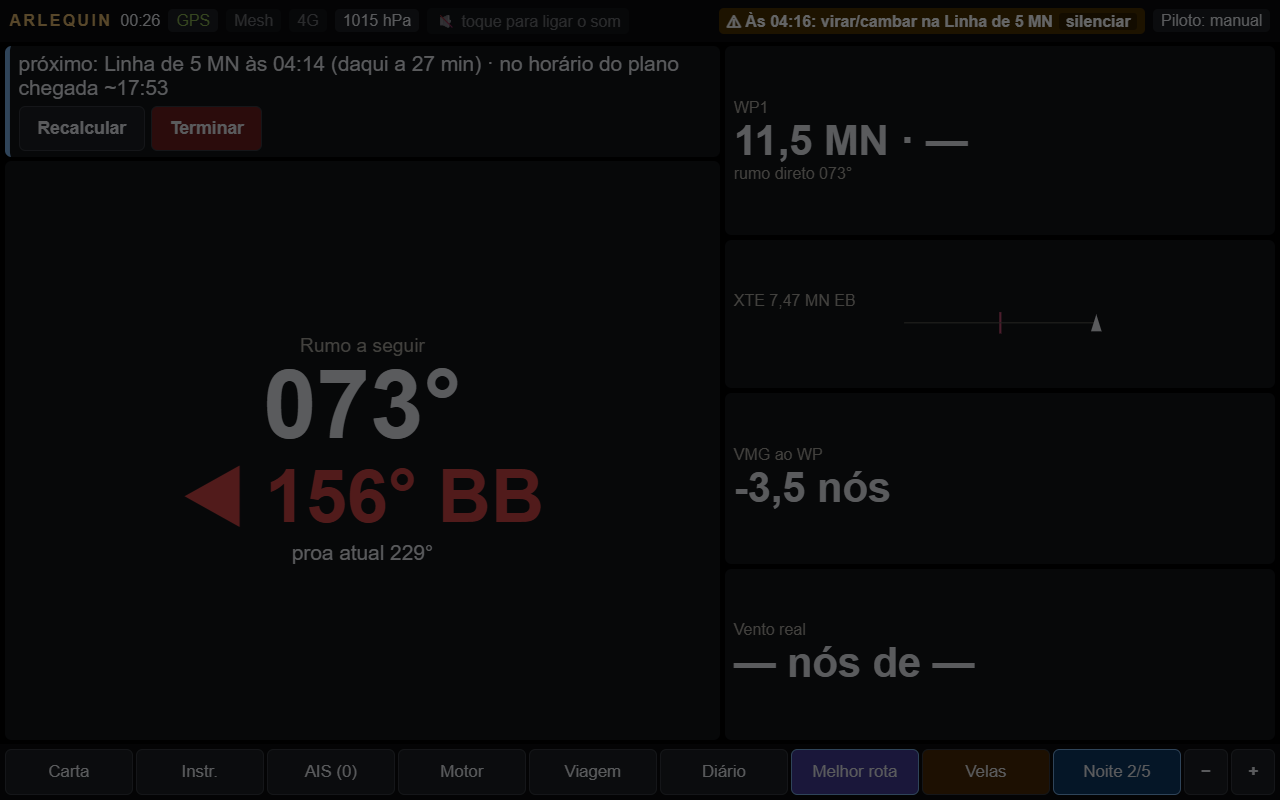
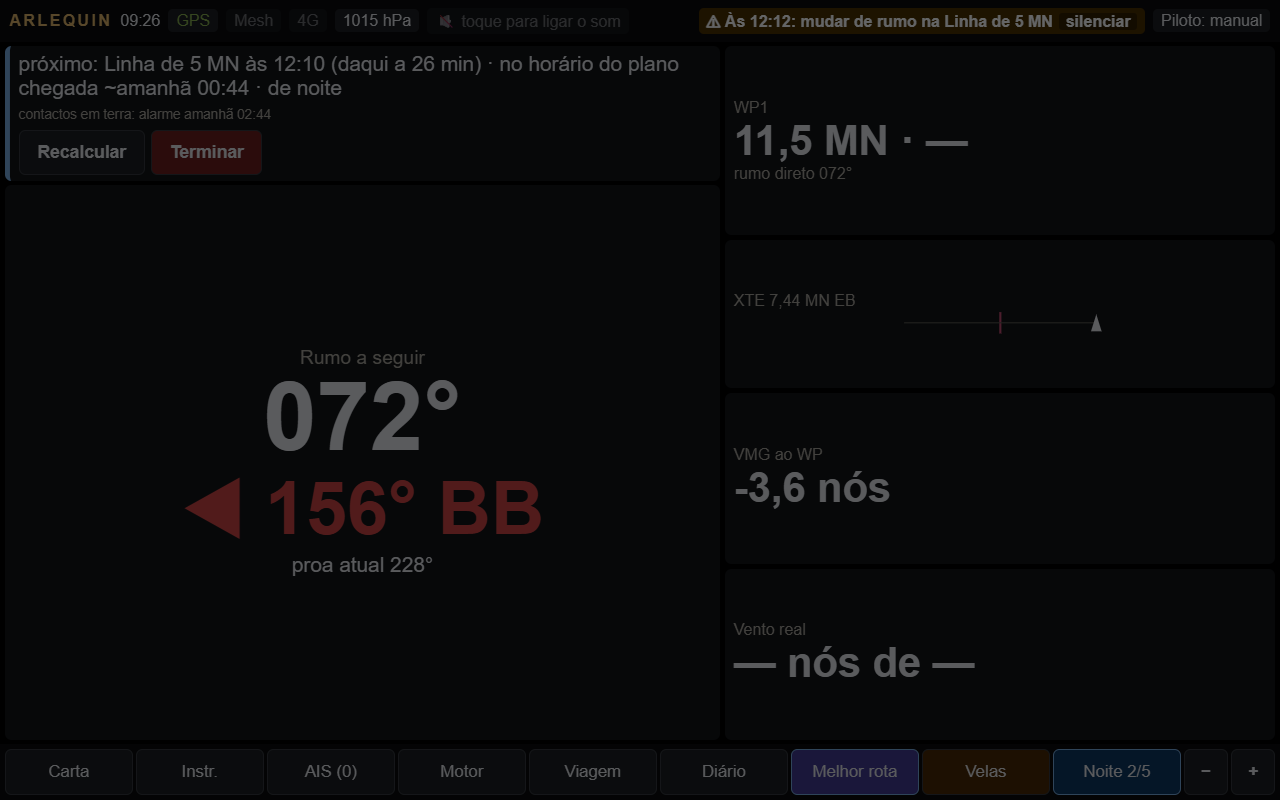
Docs 3b-2 (revisão final): "só a avançar + teto de 3 h" no desenho e no NAVEGACAO, capturas novas
- Desenho (Decisões do Ivo e Contactos em terra) e NAVEGACAO: a decisão do Ivo de 02/10 ("Só a avançar +
  teto de 3 h") e o botão Estou bem; o plano de outra alternativa, o contacto que falhou, a hora de
  alarme em terra no ecrã e o aviso 60 min antes; "mudar de rumo" a motor; a rotação do vento só com 6
  nós ou mais; a ida e volta; depois de desligar o Pi um aviso ativo volta a chegar uma vez.
- Plano: "Alterações durante a execução".
- Capturas (viagem acelerada Algés → Peniche, 1280×800, dia e noite): 01–04 refeitas, 06 nova (o Estou
  bem com o barco parado), noite-brilho-1/5 refeitas (o motor tracejado); as 05 (rotação do vento com
  1–2 nós previstos) saem: com o limite dos 6 nós esse lembrete já não aparece.

Changed region(s): [[0.125, 0.4062, 0.4375, 0.7188], [0.0, 0.0625, 0.2812, 0.2188], [0.5312, 0.0, 0.7188, 0.0625]]

diff --git a/NAVEGACAO.md b/NAVEGACAO.md
@@ -1387,7 +1387,7 @@ quem o recebe para ligar ao Ivo e, se ele não atender, ao MRCC Lisboa (+351 214
 #### A navegar (3b-2)
 
 Desenho em `docs/superpowers/specs/2026-10-01-melhor-rota-navegar-3b2-design.md`; capturas do Leme
-(faixa com o lembrete de virar/cambar, recalcula, rota mudada, recursos e barómetro, rotação do vento), de dia e de noite
+(faixa com o lembrete de mudar de rumo, recalcula, rota mudada, recursos e barómetro, e o "Estou bem" com a hora de alarme em terra por adiar), de dia e de noite
 (o modo noite de 01/10, brilho 2), em `docs/capturas-3b2/`. Corre no **plugin da rota,
 no Pi**, de minuto a minuto: funciona com o ecrã desligado e continua depois de um reinício (o plano
 fica gravado em `plano-ativo.json`, na pasta do plugin). **Nunca muda a rota sozinho.**
@@ -1399,7 +1399,10 @@ destino, parado (menos de 0,5 nó) durante 5 min, depois de feita pelo menos met
 com menos de 1 MN, depois de 5 min a navegar). Com a rota limpa ou trocada no OpenCPN (o plano em
 pausa), conta também o afastamento real: se já estiveste a pelo menos 1 MN da partida (ou a metade
 da distância em linha reta até ao destino, se for menor), chegar e ficar 5 min no cais dá o "cheguei
-bem" na mesma. Um plano novo começa limpo; os 5 últimos ficam em `planos-fechados.json`.
+bem" na mesma. Em pausa, e numa rota com menos de 1 MN, o barco também tem de ter saído 0,5 MN do
+cais (a contar da partida) e voltado: numa ida e volta, ou com o destino colado à partida, ficar no
+cais logo à saída não é "cheguei bem". Um plano novo começa limpo; os 5 últimos ficam em
+`planos-fechados.json`.
 
 **A faixa no Leme**, por cima do rumo:
 - "próximo: rizar às 22:50 (daqui a 25 min) · +20 min sobre o plano" (os eventos de sítio — rizar,
@@ -1408,14 +1411,20 @@ bem" na mesma. Um plano novo começa limpo; os 5 últimos ficam em `planos-fecha
 - "chegada ~amanhã 07:58 (plano 07:38)", com "de noite" se a chegada deslizada for de noite;
 - "recursos: gasóleo à chegada ~34 L" quando há aviso, ou "recursos: sem leitura";
 - "sem GPS: acompanhamento parado" (mais de 2 min sem posição) e "barómetro: sem leitura";
-- antes de sair: "plano ativo · à espera de sair".
+- antes de sair: "plano ativo · à espera de sair";
+- com o plano enviado: "contactos em terra: alarme HH:MM" (a hora a que eles ligam ao MRCC), "mensagem
+  para terra por enviar (sem rede)" quando uma já falhou, "não chegou a X (a tentar outra vez)" e, na
+  caixa da pausa, "em pausa: os atrasos não seguem para terra".
 
 **O que o sistema avisa** (na barra de cima, com o apito curto; nenhum muda a rota):
 - **Lembretes**, 30 min antes: rizar ou largar rizo, a frente, chuva e visibilidade abaixo de 5 km
   ("radar ligado e luzes"), o pôr do sol ("luzes, arnês, come antes de escurecer"), a chegada de
   noite, **virar/cambar** nos pontos da rota onde o rumo muda mais de 45° ("virar/cambar no Cabo
-  Raso") e a **rotação do vento** previsto de mais de 45° em 1 h ("rotação do vento de 350° para
-  50°"). Só no ecrã.
+  Raso"; num troço a motor, "mudar de rumo no Cabo Raso") e a **rotação do vento** previsto de mais
+  de 45° em 1 h ("rotação do vento de 350° para 50°"; com vento previsto de 6 nós ou mais, no mínimo
+  3 h entre elas e nenhuma perto de uma frente, que já diz para onde roda). Só no ecrã.
+- **A hora de alarme em terra**, 60 min antes, com o plano aberto (também à espera de sair e em
+  pausa): "Os contactos em terra ligam ao MRCC às HH:MM: avisa-os ou Terminar". Só no ecrã.
 - **Come e bebe** (só com "só eu"), de 3 em 3 h desde a saída, durante 15 min. Só no ecrã.
 - **Recalcula a rota**: atraso de mais de 30 min, ou o vento medido (média de 10 min) afastado do
   previsto mais de 30 % e mais de 4 nós durante 30 min seguidos. Apaga-se com os dois normais
@@ -1427,7 +1436,9 @@ bem" na mesma. Um plano novo começa limpo; os 5 últimos ficam em `planos-fecha
 - **Barómetro**: queda de mais de 3 hPa em 3 h, "o tempo pode piorar antes do previsto"; apaga-se
   com a queda em 3 h até 2 hPa. Vai também para o teu Telegram.
 - O teu Telegram recebe o "✓ Resolvido" quando passam, uma só vez (o plugin porto guarda o que já
-  te mandou em `encaminhador.json`: um reinício do servidor não repete os avisos nem o "Resolvido").
+  te mandou em `encaminhador.json`: um reinício do plugin não repete os avisos nem o "Resolvido";
+  depois de desligar o Pi, um aviso ainda ativo volta a chegar uma vez — mais vale repetido do que
+  perdido).
   O apito contínuo fica só para o AIS.
 
 **O que os contactos em terra recebem** (só se o plano lhes foi enviado; vão também para o teu chat):
@@ -1436,9 +1447,19 @@ bem" na mesma. Um plano novo começa limpo; os 5 últimos ficam em `planos-fecha
   HH:MM)." quando a chegada prevista passa **30 min ou mais** da "mais tarde" do plano (decisão do
   Ivo de 01/10: uns minutos não preocupam ninguém em terra); depois, no máximo 1× por hora
   e só se a chegada escorregar mais 15 min. A nova hora de alarme é a chegada prevista + 2 h, e só
-  conta quando chega a terra (o "em vez de" é sempre a última que eles receberam);
+  conta quando chega a terra (o "em vez de" é sempre a última que eles receberam). **Só sai com o
+  barco a avançar** (decisão do Ivo de 02/10, "só a avançar + teto de 3 h"): pelo menos 1 MN na rota
+  na última hora, a andar agora e a menos de 2 MN da rota; e **nunca empurra sozinho a hora de alarme
+  mais de 3 h** sobre a do plano. Parado ou à deriva não sai nada: fica a hora de alarme que eles têm
+  (se estiveres incapacitado, ligam ao MRCC à hora certa). O Leme diz então "A hora de alarme em terra
+  é HH:MM e não foi adiada (barco parado / limite de 3 h). Se estás bem, carrega Estou bem.": o botão
+  **Estou bem** manda um atraso com a estimativa de agora, e o limite passa a 3 h sobre essa hora;
 - "Viagem terminada / mudança de planos: estou bem, em <posição> às HH:MM." ao Terminar;
-- o plano novo, com "Este plano substitui o anterior", ao Recalcular → Ativar.
+- o plano novo, com "Este plano substitui o anterior", ao Recalcular → Ativar, e também ao Ativar
+  outra alternativa (ou outro cálculo) quando eles têm o plano de outra (o Resultado avisa: "os
+  contactos em terra têm o plano da 1.ª alternativa (alarme HH:MM): ao Ativar, segue o novo").
+- Um contacto que não a recebeu (bloqueou o bot, um erro do Telegram) recebe-a outra vez, igual e com
+  a mesma referência, de 2 em 2 min, até chegar.
 - Nada mais: os lembretes, os avisos e a rota mudada nunca vão para terra. Sem rede (ou sem o
   plugin porto), as mensagens ficam em fila e voltam a tentar de 2 em 2 min (no teu chat só a 1.ª
   vez). Um atraso que fica na fila sai com os valores da hora a que sai, e já não sai se entretanto

diff --git a/docs/superpowers/specs/2026-10-01-melhor-rota-navegar-3b2-design.md b/docs/superpowers/specs/2026-10-01-melhor-rota-navegar-3b2-design.md
@@ -14,6 +14,7 @@ Parte do desenho geral `2026-09-29-melhor-rota-ia-design.md` (Parte 4: avisos e 
 | Mudança de rota | Nunca muda a rota sozinho. "Recalcular" é um botão; ativar outra rota substitui o plano |
 | Ver a chegada mesmo em pausa (01/10, revisão) | Em pausa, a chegada ao cais do plano continua a contar (a mesma regra) → "cheguei bem" normal. Em pausa e parado (SOG < 0,5 nó) 30 min a menos de 0,3 MN de **outro** porto da lista, o ecrã pergunta "Chegaste a X? Enviar 'cheguei bem a X'" com um botão; só envia com o toque (`POST /plano-ativo/chegada { destino }`) |
 | Recalcular no mar (01/10, revisão) | A navegar (ou em pausa no mar), o Recalcular pede só a partida imediata (`sairAgora: true`), com o "Volta ou abriga-te em X" e os pontos de desistência; à espera de sair, todas as partidas |
+| Atrasos para terra: "só a avançar + teto de 3 h" (02/10, revisão final C1) | O "Ainda a navegar, tudo bem…" automático só sai com o barco a avançar na rota: ≥ 1 MN de progresso na rota na última hora e a ≤ 2 MN da rota. A hora de alarme nunca passa sozinha 3 h da do plano; daí para a frente só com o **Estou bem** do Ivo no ecrã. Parado ou à deriva, não sai nada e fica a hora de alarme que terra tem (ver "Contactos em terra") |
 
 ## Arquitetura
 
@@ -101,6 +102,14 @@ Só se o plano foi enviado e há contactos entregues. As mensagens seguem só pa
 | "Viagem terminada / mudança de planos: estou bem, em … às HH:MM." | ao Terminar |
 | O plano novo, com "Este plano substitui o anterior" | ao Recalcular → Ativar, se o antigo tinha sido enviado |
 
+- **As guardas do atraso (decisão do Ivo de 02/10, "Só a avançar + teto de 3 h"; revisão final C1):** o atraso automático diz "tudo bem" aos contactos, por isso só sai quando o barco está mesmo a avançar:
+  - **progresso real:** ≥ 1 MN na rota na última hora, a avançar agora (os últimos 15 min ao mesmo ritmo: um barco que acabou de parar não diz "tudo bem") e a ≤ 2 MN da rota. As milhas na rota guardam-se de 5 em 5 min no plano ativo (valem depois de um reinício), e cada troço conta no máximo o que o barco andou de facto (longe da rota, numa curva, a projeção salta sem o barco andar);
+  - **teto:** a hora de alarme nunca passa sozinha mais de 3 h da hora de alarme do plano;
+  - parado ou à deriva, ou acima do teto, **não sai nada** e fica a hora de alarme que terra já tem (falha segura: se o Ivo estiver incapacitado, os contactos chegam à hora de ligar ao MRCC). Um atraso na fila que deixou de passar nas guardas sai da fila;
+  - o ecrã mostra então "A hora de alarme em terra é HH:MM e não foi adiada (barco parado / limite de 3 h). Se estás bem, carrega Estou bem." com o botão **Estou bem** (`POST /plano-ativo/estou-bem`, `readwrite`): liberta **um** atraso com a estimativa de agora, e o teto passa a ser 3 h sobre a hora de alarme dessa mensagem.
+- **Plano de outra alternativa (revisão final I1):** o último plano entregue a contactos em terra fica em `ultimo-envio.json`. Ao Ativar sem um plano aberto enviado, se terra tem o plano de outra alternativa ou de outro cálculo (com a hora de alarme por passar e sem "cheguei bem"/"terminada"), o novo segue como no Recalcular → Ativar ("Este plano substitui o anterior"). O Resultado avisa antes.
+- **Contacto que falhou (revisão final I3):** os contactos que não receberam uma mensagem (bloquearam o bot, um erro do Telegram) recebem-na outra vez, igual e com a mesma referência, de 2 em 2 min, até entregar ou deixar de interessar; o ecrã diz "não chegou a X (a tentar outra vez)".
+- **A hora de alarme no ecrã (revisão final I2):** a faixa e a caixa da pausa dizem "contactos em terra: alarme HH:MM", "mensagem para terra por enviar (sem rede)" e, em pausa, "em pausa: os atrasos não seguem para terra"; 60 min antes da hora de alarme, com o plano aberto (também à espera de sair e em pausa), o aviso `notifications.rota.alarmeTerra` (alert, apito curto, só no ecrã): "Os contactos em terra ligam ao MRCC às HH:MM: avisa-os ou Terminar".
 - **Horas:** como na 3b-1, horas de Lisboa com o dia da semana, a data e o sufixo de verão/inverno na hora ambígua.
 - **Fila sem rede:**
   - uma mensagem que falha fica em fila (gravada no plano ativo) e volta a tentar de 2 em 2 min;

diff --git a/docs/superpowers/plans/2026-10-01-rota-3b2.md b/docs/superpowers/plans/2026-10-01-rota-3b2.md
@@ -291,3 +291,7 @@ A **Tarefa 8** é nova (acertos depois das capturas e a decisão dos 30 min). Fa
 - o vento P50 pela razão do modelo.
 
 **Sem marcadores vazios.** As Tarefas 1–7 estão nos commits testados do `prototipo-3b2`. A Tarefa 8 tem regras, números e testes concretos.
+
+## Alterações durante a execução
+
+- 02/10, revisão final (`rota-3b2-final-review.md`, "Correções da revisão final"): decisão do Ivo "Só a avançar + teto de 3 h" — o atraso automático para terra só sai com ≥ 1 MN de progresso na rota na última hora e a ≤ 2 MN da rota, nunca passa sozinho 3 h sobre a hora de alarme do plano, e o `POST /plano-ativo/estou-bem` (o botão "Estou bem" no Leme) liberta mais um; mais C2, I1–I4 e M1–M7 da revisão final.
